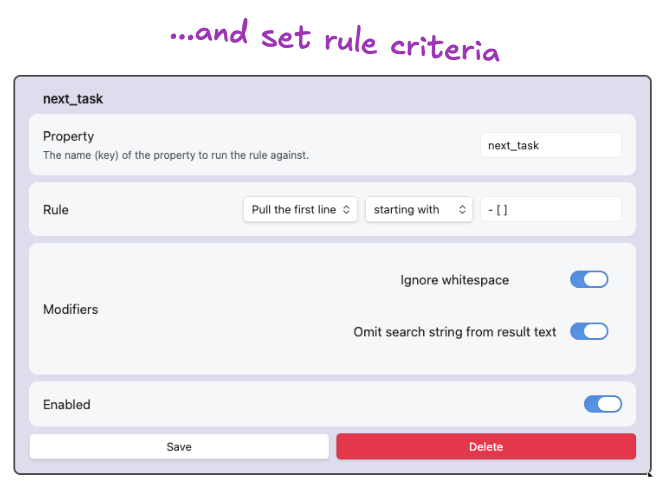
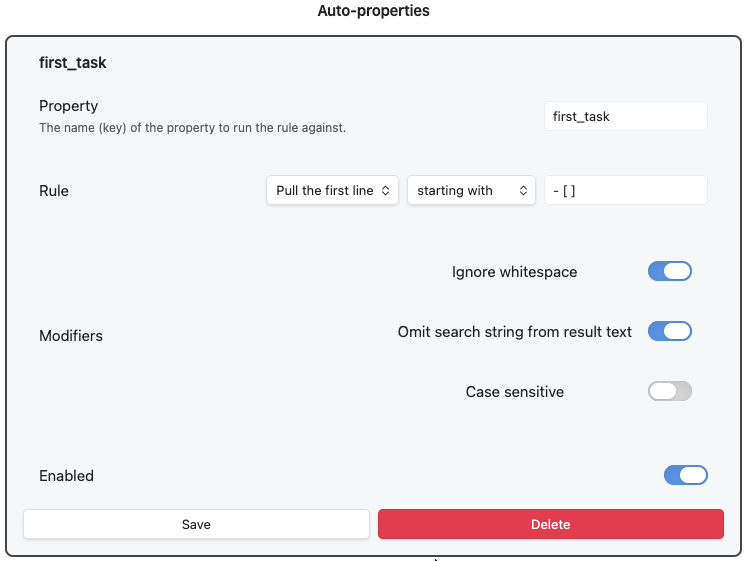
better README

Changed region(s): [[0.0, 0.0309, 1.0, 1.0], [0.4204, 0.0, 0.5706, 0.0309]]

diff --git a/README.md b/README.md
@@ -1,34 +1,15 @@
 # Auto-properties Plugin
 
-> [!tip] Create auto-updating properties based on rules
-
+> [!TIP] 
+> **TL;DR** - Create auto-updating properties based on rules
 
 This is an [Obsidian](https://obsidian.md) plugin which creates automatically-updating note properties based on user-defined rules. This pairs nicely with bases and templates.
 
-## Demo Video
-
-[Watch Demo](https://www.youtube.com/watch?v=IPDsfYfXp4Y)
+# [👉 Demo Video 👈](https://www.youtube.com/watch?v=IPDsfYfXp4Y)
 
 ## Example
 
-### Demo File
-
-Let your properties take care of themselves.
-
-![example rule](assets/example-file.png)
-
-### Auto-property Ruleset
-
-You can have as many auto-properties as you want.
-
-
-![example rule](assets/example-ruleset.png)
-
-### Rule
-
-You determine the rule each auto-property uses to get its value.
-
-![example rule](assets/example-rule.png)
+![](assets/example-file.png)
 
 ## Overview
 
@@ -36,63 +17,61 @@ This plugin updates frontmatter of your notes using rules that act on their body
 
 ![overview](assets/overview.png)
 
-
 # Use
 
 ## How
-1. Install & enable plugin
-2. Create your first auto-property & define its rule
-	1. Example rule:
-		![[example-rule-clean.png]]
-3. Add your property's key to a note
-4. Automatically populates property value on every change thereafter
+1. Install & enable plugin - open `Auto-Property` settings
+2. Decide how often you want the auto-properties to update
+
+![top-level-settings](assets/top-settings.png)
+
+3. Create your first auto-property & configure its rule criteria.
+   
+![rule](assets/example-rule.png)
+
+4. Add your property's key to your notes
+5. Done! Your notes willl then update the property values automatically however often you've configured
 
 ### Rule Criteria
 
 - **Key** - the property name the rule will be applied to in your notes
-- **Rule** - rules are built on 2 dropdowns & a text input - they end up being readable sentences that say what the rule does
-	- Dropdown one:
-		- *Pull the first line*
-		- *Pull all lines*
-		- *Count all lines*
-	- Dropdown two:
-		- *starting with*
-		- *containing*
-		- *ending with* - 
-		- *matching regex* - if you don't know what this is, don't worry about it!
-	- Text input:
-		- (whatever you want)
+- **Rule** - end up being readable sentences that say what the rule does:
+
+| Rule Part 1                                                | Rule Part 2                                                          | Rule Part 3                         |
+| ---------------------------------------------------------- | -------------------------------------------------------------------- | ----------------------------------- |
+| - Pull first line<br>- Pull all lines<br>- Count all lines | - Starting with<br>- Containing<br>- Ending with<br>- Matching regex | (whatever search string you want) |
+
 - **Modifiers** - change how rules apply or are shown
 	- *Ignore whitespace* - whether or not "starts with" should care about indention
 	- *Omit search string from result text* - allows you to not include whatever text you are using in the text input field of the rule
-	- *Case sensitive* - whether or not "THIS" is the same as "ThiS"
+	- *Case sensitive* - whether or not "THIS" is the same as "tHiS"
 - **Enabled** - you can toggle rules on/off without deleting them
 
 ## Use Cases
 
-My use case was based on pulling the first open task into a property... but you can do much more. You can make a property that shows...
+My use case was based on pulling the first open task into a property... but you can do much more.
 
 - All open tasks
 - First open task
 - First task with status
-- First line with tag
+- First line with tag (text)
 - All lines with whatever text
 - First embed image
 
 # Design Considerations
 
-## You specify the keys
+## You specify the keys & rules
 
-You have control over the keys (property names) you do and don't want to have rules for.
+You have control over the keys (property names) you do and don't want to have rules for. You control what the rules do.
 
 ## Note bodies are never changed
 
-This plugin only updates metadata. It will not update the body of the note, by design. This prevents inadvertent data loss from within the note.
+This plugin **only updates note properties**. It will not update the body of the note, by design.
 
-## Few "Smart" touches
+## Few "smart" touches
 
 The plugin tries to do as little "magic under the hood" stuff as possible - but does do a couple of things to work better with how Obsidian works.
 
-- targeting embeds (`starts with` `![[`) will convert to a clickable link
+- targeting embeds (via search string `![[`) will convert to a clickable link
 - targeting blocks that have a block ID will convert to a clickable link to that block
   - i.e. it will make links for blocks ending with a space, carrot, and some text ^likethis
